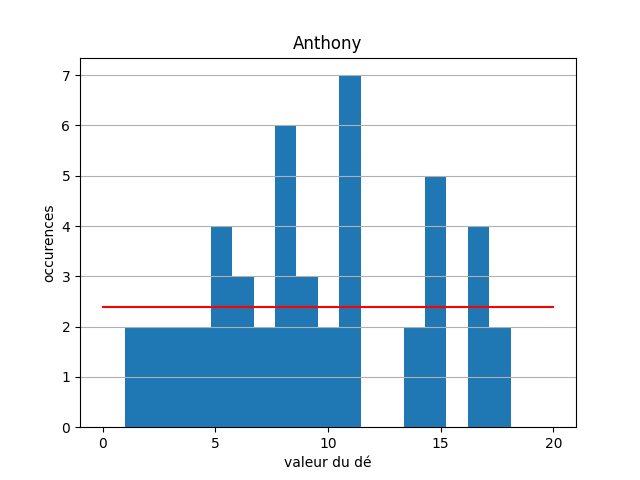
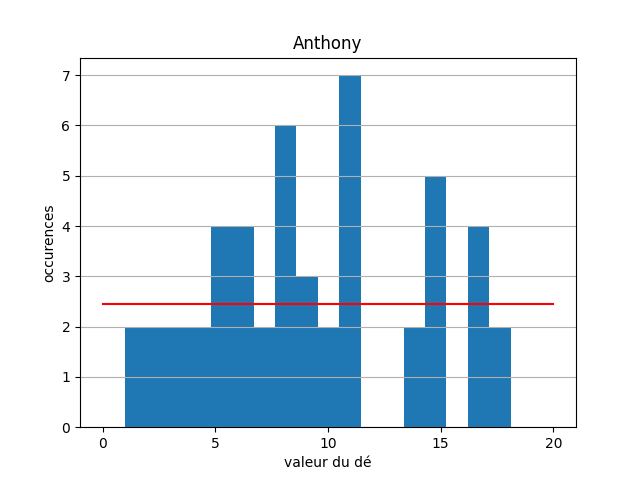
fix: modidy rpgPage render for null value on a game modify add game function to consider a player game without dices roll data: add 2.10.26 dernierepluie game

Changed region(s): [[0.1562, 0.625, 0.875, 0.6562], [0.3438, 0.4688, 0.4062, 0.5938]]

diff --git a/app/controllers/mainController.js b/app/controllers/mainController.js
@@ -78,8 +78,8 @@ const mainController = {
     characters.forEach(character => {
       game[character] = {
         dices: [],
-        average: 0,
-        median: 0,
+        average: null,
+        median: null,
         success: 0,
         fail: 0
       }
@@ -87,23 +87,26 @@ const mainController = {
 
     // génère les stats pour chaque personnage
     characters.forEach(character => {
-      // récupère la liste des dés et la formate
-      const dices = dataMapper.formatDices(form[character]);
-      game[character].dices = dices;
-
-      // calcule de la moyenne
-      const average = dataMapper.calculateAverage(dices);
-      game[character].average = average; 
-
-      // calcule de la médiane
-      const median = dataMapper.calculateMedian(dices);
-      game[character].median = median;
-
-      // calcule le nombre de réussites et d'échecs critiques
-      const {success, fail} = dataMapper.getCritValues(dices, rpgData.diceSystem, rpgData.systemOrder);
-      game[character].success = success;
-      game[character].fail = fail;
-
+      if (form[character]) {
+        // récupère la liste des dés et la formate
+        const dices = dataMapper.formatDices(form[character]);
+        game[character].dices = dices;
+  
+        // calcule de la moyenne
+        const average = dataMapper.calculateAverage(dices);
+        game[character].average = average; 
+  
+        // calcule de la médiane
+        const median = dataMapper.calculateMedian(dices);
+        game[character].median = median;
+  
+        // calcule le nombre de réussites et d'échecs critiques
+        const {success, fail} = dataMapper.getCritValues(dices, rpgData.diceSystem, rpgData.systemOrder);
+        game[character].success = success;
+        game[character].fail = fail;
+      } else {
+        // si le joueur n'a pas lancé de dés, ne rien faire (garde la valeur initiale)
+      }
     });
 
     // ajoute la partie au fichier de sauvegarde
@@ -112,23 +115,29 @@ const mainController = {
 
     // met à jour les statistiques globales
     characters.forEach(character => {
-      // met à jour la liste des dés
-      const dicesList = [...gameFile.stats[character].dicesList];
-      dicesList.push(...gameFile.games[date][character].dices);
-
-      const sortedDices = dicesList.toSorted((a,b) => a - b);
       
-      // calcule les stats globales
-      const globalMedian = dataMapper.calculateMedian(dicesList);
-      const globalAvg = dataMapper.calculateAverage(dicesList);
-      const {success, fail} = dataMapper.getCritValues(dicesList, rpgData.diceSystem, rpgData.systemOrder);
-      
-      // met à jour le fichier final
-      gameFile.stats[character].globalAvg = globalAvg;
-      gameFile.stats[character].globalMedian = globalMedian;
-      gameFile.stats[character].globalSuccess = success;
-      gameFile.stats[character].globalFail = fail;
-      gameFile.stats[character].dicesList = sortedDices;
+      // si le joueur a lancé les dés, on calcule les stats
+      if (game[character].dices.length > 0) {
+        // met à jour la liste des dés
+        const dicesList = [...gameFile.stats[character].dicesList];
+        dicesList.push(...gameFile.games[date][character].dices);
+        
+        const sortedDices = dicesList.toSorted((a,b) => a - b);
+        
+        // calcule les stats globales
+        const globalMedian = dataMapper.calculateMedian(dicesList);
+        const globalAvg = dataMapper.calculateAverage(dicesList);
+        const {success, fail} = dataMapper.getCritValues(dicesList, rpgData.diceSystem, rpgData.systemOrder);
+        
+        // met à jour le fichier final
+        gameFile.stats[character].globalAvg = globalAvg;
+        gameFile.stats[character].globalMedian = globalMedian;
+        gameFile.stats[character].globalSuccess = success;
+        gameFile.stats[character].globalFail = fail;
+        gameFile.stats[character].dicesList = sortedDices;
+      } else {
+        // on garde les stats par défaut (initialisation)
+      }
     })
 
     if (form.status === true) {
